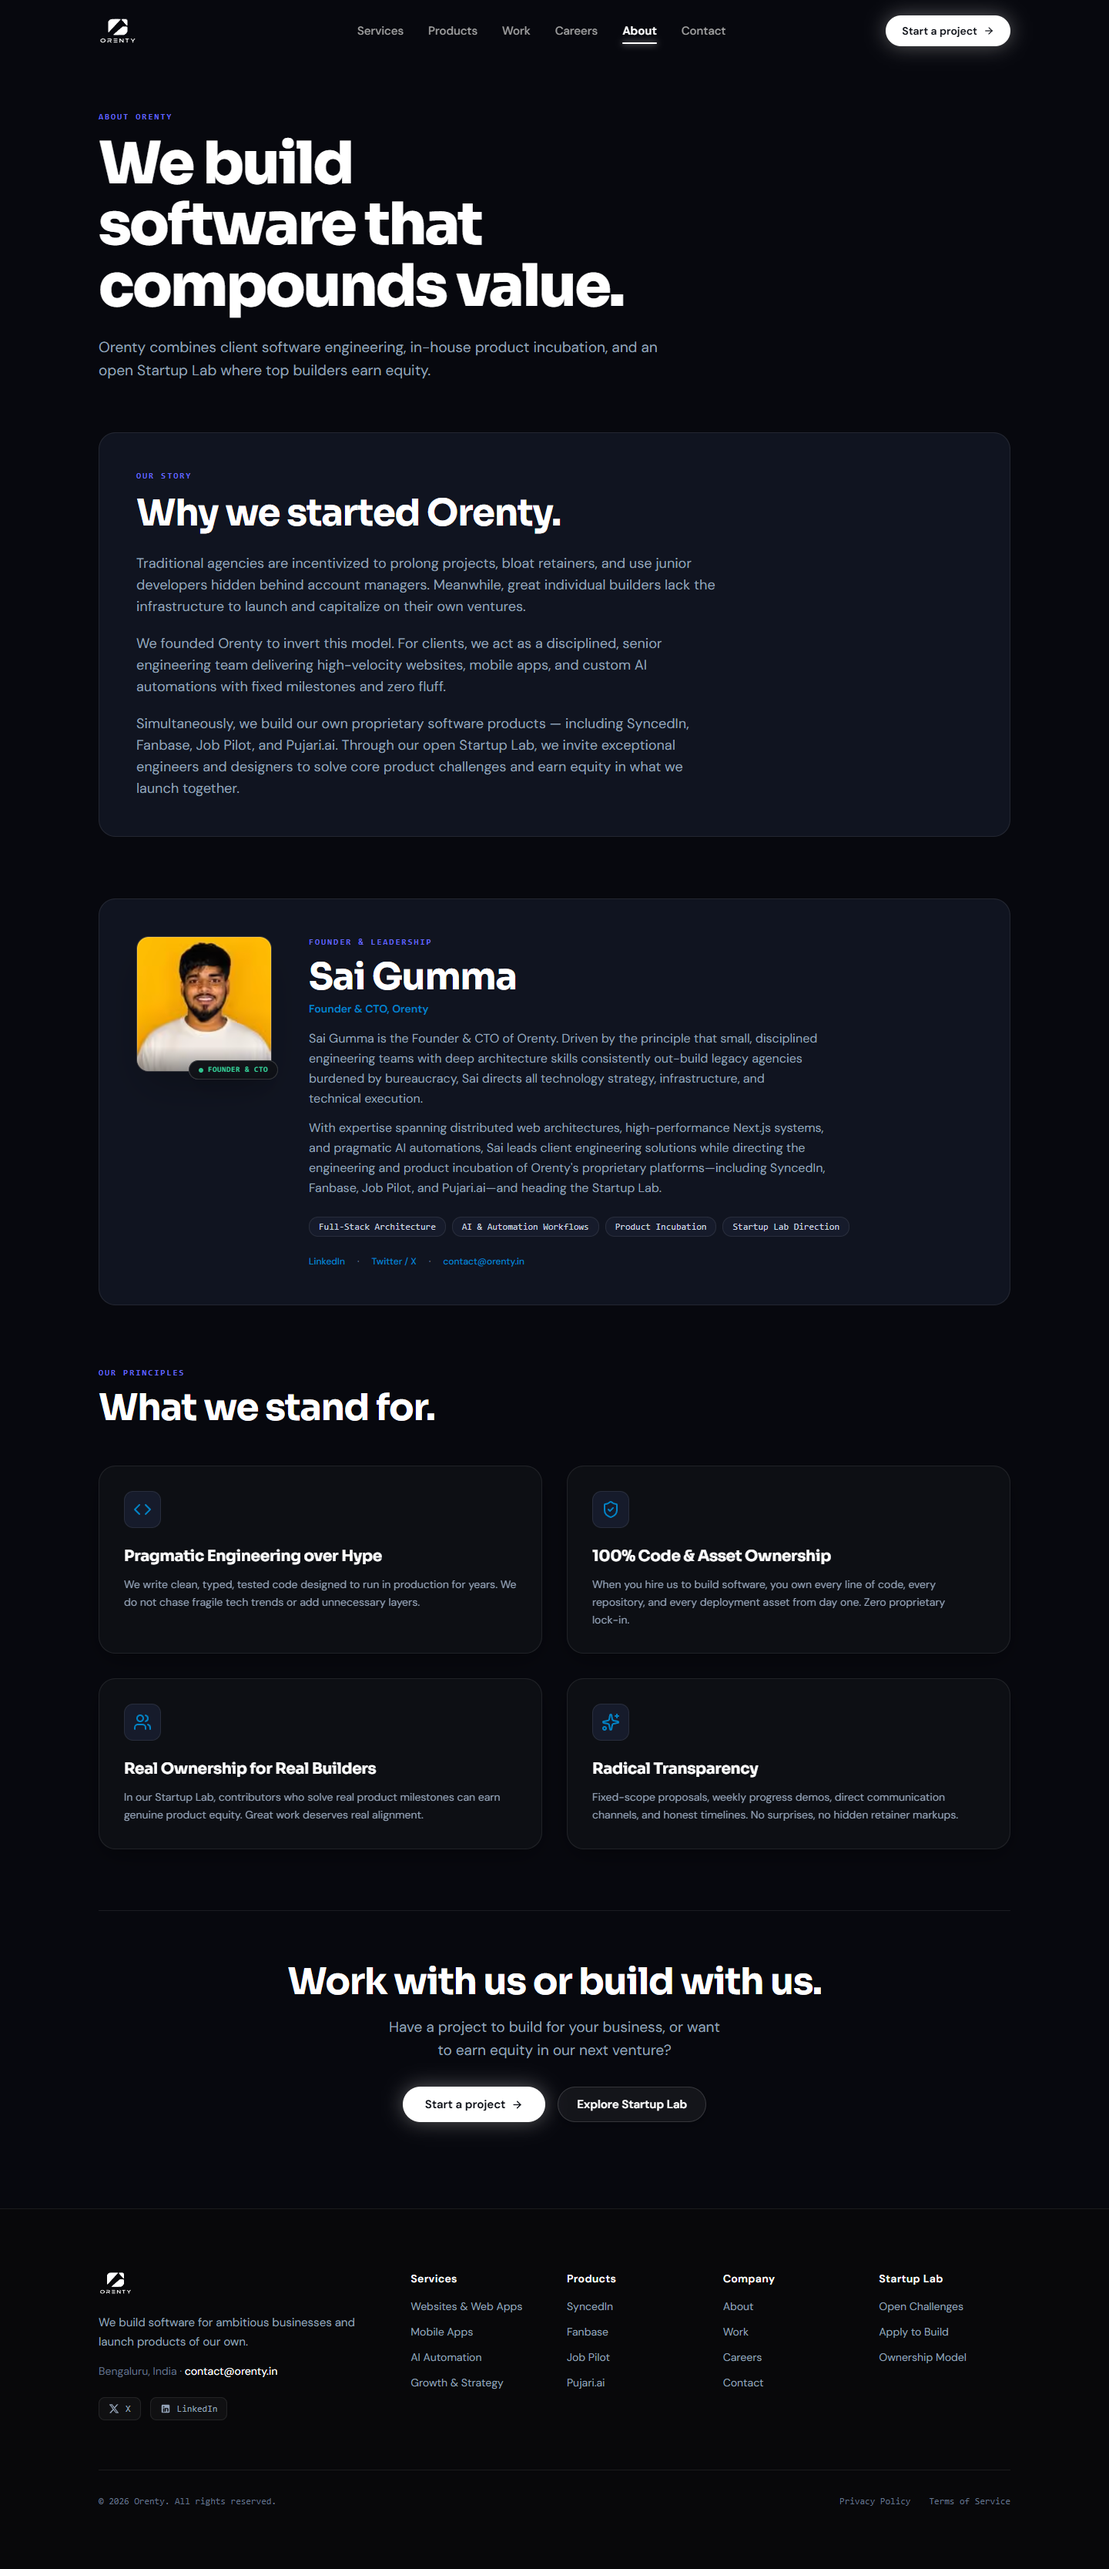
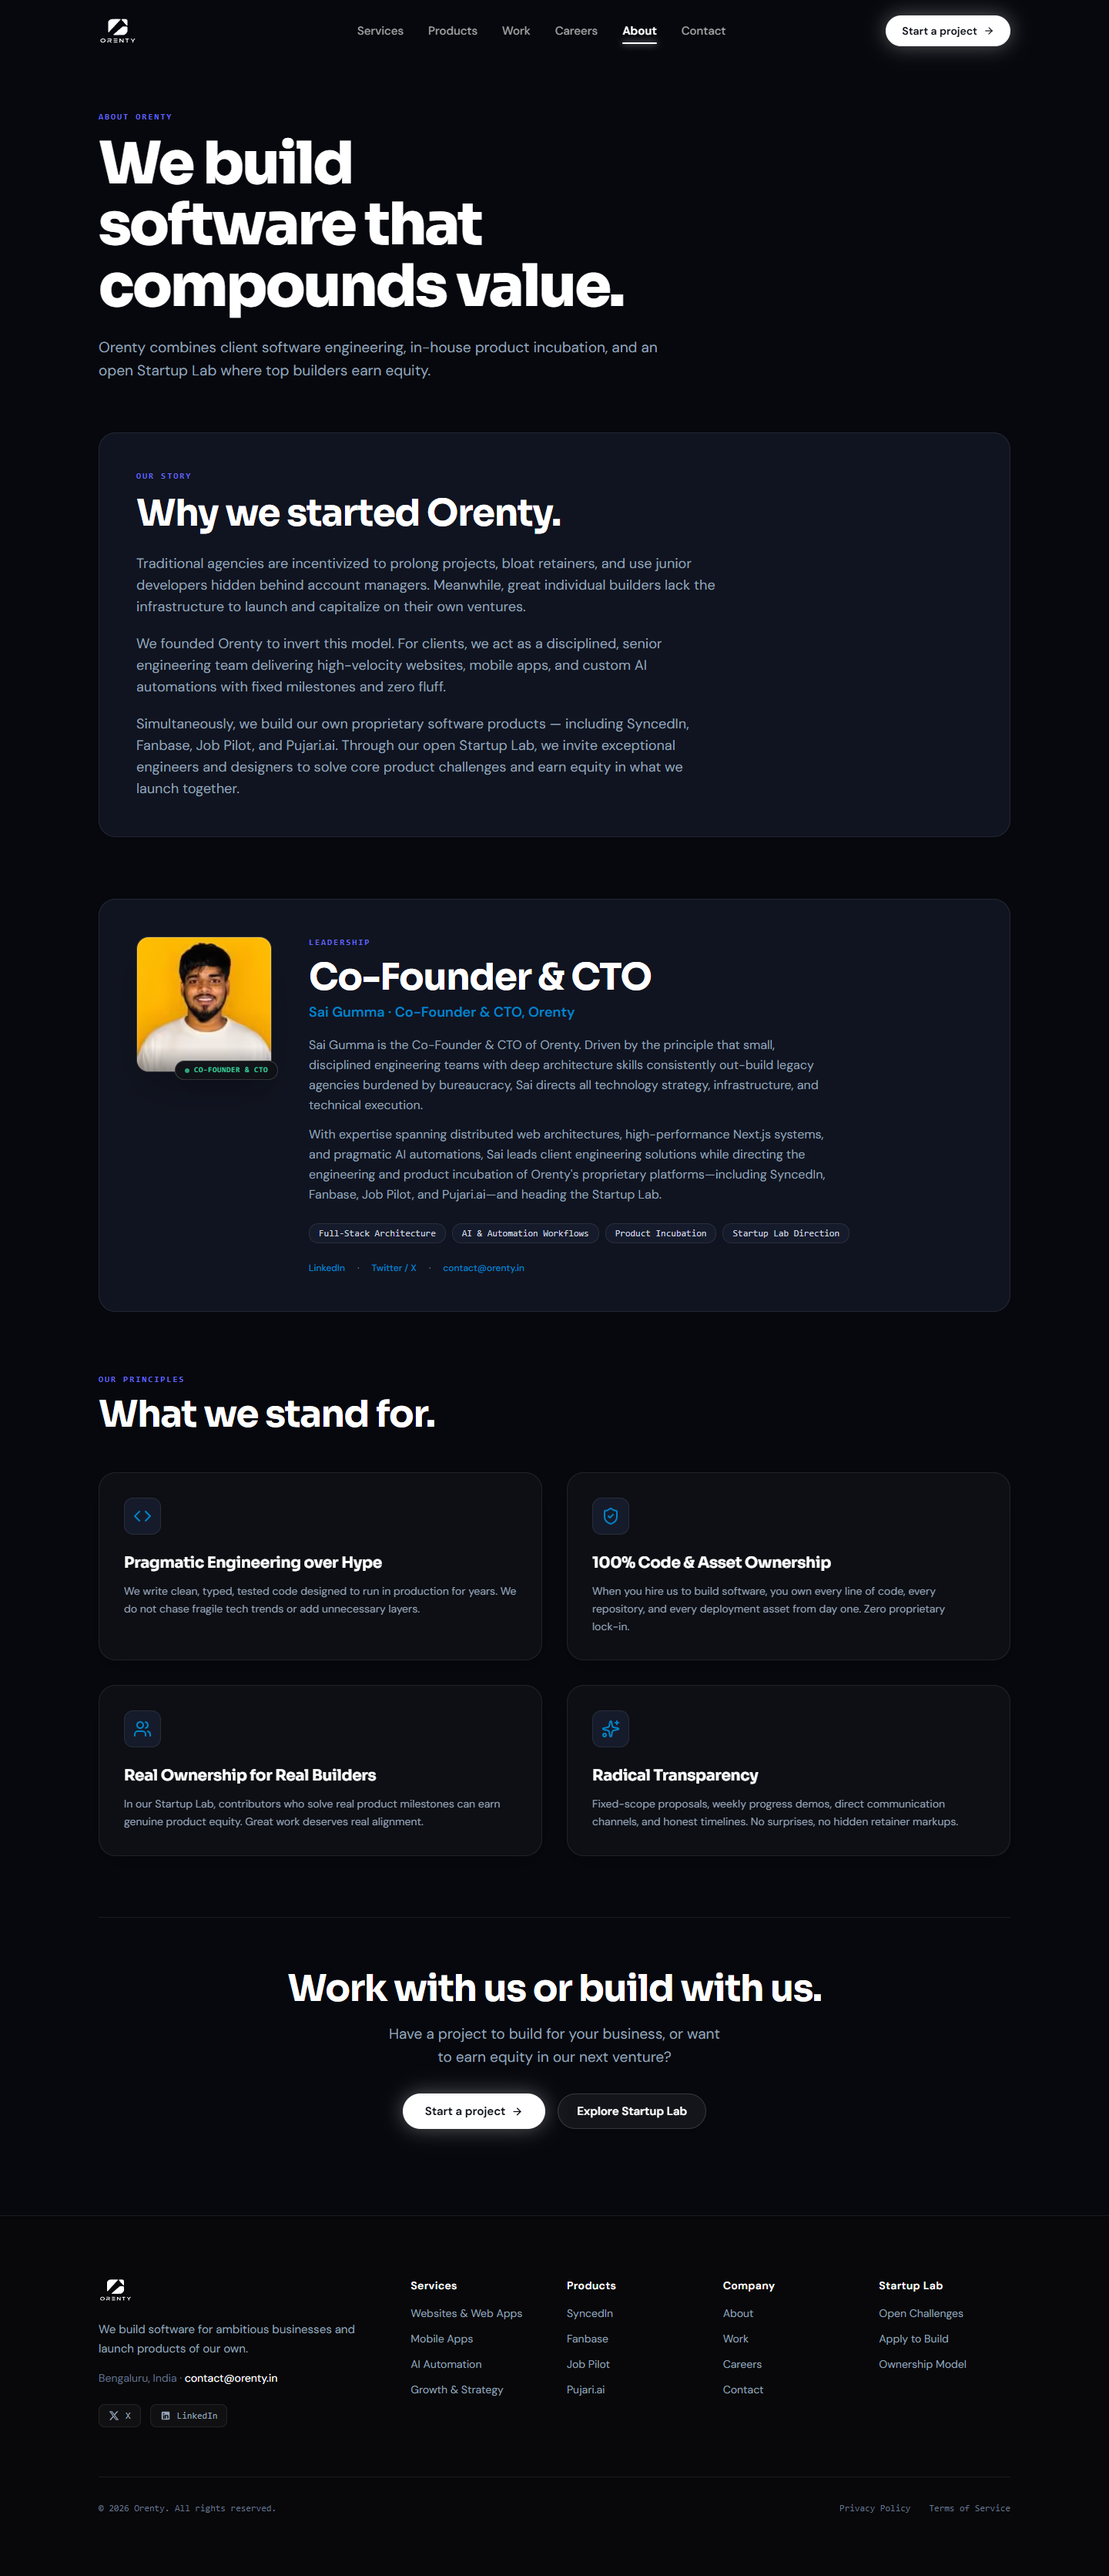
feat(about): update leadership card with Co-Founder & CTO headline, new portrait photo, verified links and zero confirm tags

diff --git a/app/about/page.tsx b/app/about/page.tsx
@@ -7,7 +7,7 @@ import Button from '@/components/Button';
 import { User, ShieldCheck, Code, Users, ArrowRight, Sparkles } from 'lucide-react';
 
 export const metadata: Metadata = {
-  title: 'About | Story, Founder & Values',
+  title: 'About | Story, Leadership & Values',
   description:
     'Learn about Orenty: why we build software for ambitious businesses and launch products of our own with our Startup Lab.',
 };
@@ -75,18 +75,18 @@ export default function AboutPage() {
           </div>
         </div>
 
-        {/* Founder & Leadership Section: Sai Gumma */}
+        {/* Leadership Section: Co-Founder & CTO */}
         <div className="mb-20 rounded-card border border-border bg-surface-2 p-8 md:p-12 relative overflow-hidden">
           {/* Subtle ambient lighting */}
           <div className="pointer-events-none absolute -top-24 -right-24 h-64 w-64 rounded-full bg-secondary/10 blur-[100px]" />
 
           <div className="flex flex-col md:flex-row items-center md:items-start gap-8 lg:gap-12 relative z-10">
-            {/* Framed Founder & CTO Portrait */}
+            {/* Framed Co-Founder & CTO Portrait */}
             <div className="relative shrink-0">
               <div className="relative h-36 w-36 md:h-44 md:w-44 rounded-2xl border border-white/15 bg-[#12131A] shadow-2xl overflow-hidden group">
                 <Image
-                  src="/team/sai-gumma.jpg"
-                  alt="Sai Gumma - Founder & CTO"
+                  src="/team/co-founder-cto.jpg"
+                  alt="Sai Gumma - Co-Founder & CTO"
                   fill
                   sizes="(max-width: 768px) 144px, 176px"
                   className="object-cover object-center transition-transform duration-500 ease-out group-hover:scale-105"
@@ -99,23 +99,23 @@ export default function AboutPage() {
               </div>
               <div className="absolute -bottom-2.5 -right-2 bg-[#0D0F14]/95 backdrop-blur-md border border-white/15 px-3 py-1 rounded-full text-[10px] font-mono text-emerald-400 flex items-center gap-1.5 shadow-xl z-20">
                 <span className="h-1.5 w-1.5 rounded-full bg-emerald-400 animate-pulse" />
-                <span className="font-semibold tracking-wider">FOUNDER & CTO</span>
+                <span className="font-semibold tracking-wider">CO-FOUNDER & CTO</span>
               </div>
             </div>
 
             {/* Profile & Biography */}
             <div className="flex-1 text-center md:text-left">
-              <span className="eyebrow-label block mb-2">FOUNDER & LEADERSHIP</span>
+              <span className="eyebrow-label block mb-2">LEADERSHIP</span>
               <h2 className="h2-section text-text mb-1">
-                Sai Gumma
+                Co-Founder & CTO
               </h2>
-              <p className="text-sm font-semibold text-secondary mb-4">
-                Founder & CTO, Orenty
+              <p className="text-base sm:text-lg font-semibold text-secondary mb-4">
+                Sai Gumma · Co-Founder & CTO, Orenty
               </p>
               
               <div className="space-y-3 text-base text-text-2 leading-relaxed mb-6 max-w-2xl font-normal">
                 <p>
-                  Sai Gumma is the Founder & CTO of Orenty. Driven by the principle that small, disciplined engineering teams with deep architecture skills consistently out-build legacy agencies burdened by bureaucracy, Sai directs all technology strategy, infrastructure, and technical execution.
+                  Sai Gumma is the Co-Founder & CTO of Orenty. Driven by the principle that small, disciplined engineering teams with deep architecture skills consistently out-build legacy agencies burdened by bureaucracy, Sai directs all technology strategy, infrastructure, and technical execution.
                 </p>
                 <p>
                   With expertise spanning distributed web architectures, high-performance Next.js systems, and pragmatic AI automations, Sai leads client engineering solutions while directing the engineering and product incubation of Orenty&apos;s proprietary platforms—including SyncedIn, Fanbase, Job Pilot, and Pujari.ai—and heading the Startup Lab.
@@ -141,7 +141,7 @@ export default function AboutPage() {
               {/* Direct Links */}
               <div className="flex items-center justify-center md:justify-start gap-4 text-xs font-medium text-text-3">
                 <a
-                  href="https://linkedin.com/company/orenty"
+                  href="https://www.linkedin.com/in/vamsi-vardhan09"
                   target="_blank"
                   rel="noreferrer"
                   className="text-secondary hover:text-white transition-colors"

diff --git a/components/AboutStrip.tsx b/components/AboutStrip.tsx
@@ -12,12 +12,12 @@ export default function AboutStrip() {
         {/* Subtle traveling laser accent */}
         <div className="laser-line-top" />
 
-        {/* Founder & CTO Portrait Frame */}
+        {/* Co-Founder & CTO Portrait Frame */}
         <div className="relative shrink-0">
           <div className="relative h-24 w-24 md:h-28 md:w-28 rounded-2xl border border-white/15 bg-[#12131A] shadow-xl overflow-hidden group">
             <Image
-              src="/team/sai-gumma.jpg"
-              alt="Sai Gumma - Founder & CTO"
+              src="/team/co-founder-cto.jpg"
+              alt="Sai Gumma - Co-Founder & CTO"
               fill
               sizes="(max-width: 768px) 96px, 112px"
               className="object-cover object-center group-hover:scale-105 transition-transform duration-300"
@@ -27,14 +27,14 @@ export default function AboutStrip() {
           </div>
           <div className="absolute -bottom-2 -right-1 bg-[#0D0F14]/95 backdrop-blur-md border border-white/15 px-2 py-0.5 rounded-full text-[9px] font-mono text-emerald-400 flex items-center gap-1 shadow-md z-10">
             <span className="h-1 w-1 rounded-full bg-emerald-400 animate-pulse" />
-            <span>CTO</span>
+            <span className="font-semibold tracking-wider">CO-FOUNDER & CTO</span>
           </div>
         </div>
 
         {/* Story + Link */}
         <div className="flex-1 text-center md:text-left">
           <p className="text-base text-text leading-relaxed font-normal mb-5 max-w-lg">
-            Founded by Sai Gumma (Founder & CTO), Orenty was built to deliver software that solves real business problems without bureaucratic bloat or fragile templates. We design, engineer, and automate systems for ambitious companies while incubating proprietary products of our own.
+            Co-founded by Sai Gumma (Co-Founder & CTO), Orenty was built to deliver software that solves real business problems without bureaucratic bloat or fragile templates. We design, engineer, and automate systems for ambitious companies while incubating proprietary products of our own.
           </p>
           <Link
             href="/about"
